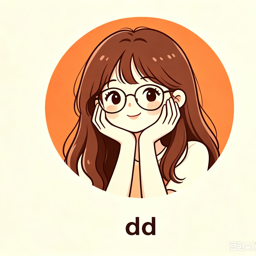
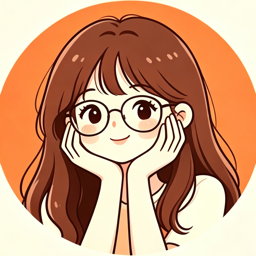
阿勒泰段加 Plan A/B 双方案切换 + 替换 4 人头像(唧唧/dd/jojo/亮哥)

diff --git a/docs/xinjiang/index.html b/docs/xinjiang/index.html
@@ -149,6 +149,17 @@
   /* 删除按钮 */
   .fb-del{margin-left:auto; background:none; border:1px solid #f0d6cc; color:#d95b2b; border-radius:8px; padding:2px 9px; font-size:11.5px; cursor:pointer; white-space:nowrap;}
   .fb-del:hover{background:#fdeee8;}
+  /* Plan A/B 方案对比 */
+  .plan-tabs{display:flex; gap:8px; flex-wrap:wrap; margin-bottom:12px;}
+  .plan-tab{background:var(--soft); border:1px solid var(--line); color:#6b6152; font-size:13px; font-weight:700; padding:8px 14px; border-radius:999px; cursor:pointer;}
+  .plan-tab.on{background:var(--primary); color:#fff; border-color:var(--primary);}
+  .plan-card{background:#fffdf9; border:1px solid var(--line); border-radius:14px; padding:14px 16px; margin-top:10px;}
+  .plan-card h4{margin:0 0 8px; font-size:15px;}
+  .plan-card ul{margin:0; padding-left:18px; font-size:13.5px; color:#5f5649; line-height:1.9;}
+  .plan-note{margin:10px 0 0; font-size:12.5px; color:#9a8f7f;}
+  .pc-tag{display:inline-block; font-size:11px; font-weight:800; border-radius:6px; padding:2px 8px; margin-left:6px; vertical-align:middle;}
+  .tag-expensive{background:#fdeee8; color:#d95b2b;}
+  .tag-save{background:#e6f4ec; color:#2f8f6b;}
   html{scroll-behavior:smooth; scroll-padding-top:64px;}
   /* 顶部导航 */
   .topnav{position:sticky; top:0; z-index:80; display:flex; gap:6px; overflow-x:auto; background:rgba(255,252,246,.96); backdrop-filter:blur(6px); padding:10px 14px; border-bottom:1px solid var(--line); scrollbar-width:none;}
@@ -296,7 +307,7 @@
       <tr><td class="d">D8</td><td class="wk">10-01 · 周四 🎉</td><td>赛里木湖 → 乌尔禾魔鬼城 · 落日 → 克拉玛依</td><td class="stay">克拉玛依</td></tr>
       <tr><td class="d">D9</td><td class="wk">10-02 · 周五</td><td>克拉玛依 → 布尔津 · 老码头夜市</td><td class="stay">布尔津</td></tr>
       <tr><td class="d">D10</td><td class="wk">10-03 · 周六</td><td>布尔津 → 喀纳斯湖 · 观鱼台</td><td class="stay">喀纳斯/贾登峪</td></tr>
-      <tr><td class="d">D11</td><td class="wk">10-04 · 周日</td><td>喀纳斯三湾徒步 → 禾木村 · 白桦林日落</td><td class="stay">禾木</td></tr>
+      <tr><td class="d">D11</td><td class="wk">10-04 · 周日</td><td>喀纳斯三湾徒步 → 禾木 / 白哈巴</td><td class="stay">禾木 / 白哈巴</td></tr>
       <tr><td class="d">D12</td><td class="wk">10-05 · 周一</td><td>禾木晨雾 → 阿勒泰 → S21 沙漠公路 → 乌鲁木齐</td><td class="stay">乌鲁木齐</td></tr>
       <tr><td class="d">D13</td><td class="wk">10-06 · 周二</td><td>市区自由活动 · 下午飞机返杭</td><td class="stay">—</td></tr>
     </table>
@@ -570,6 +581,39 @@
         </div>
       </div>
     </article>
+<article class="day open">
+      <div class="day-head">
+        <div class="day-badge"><span class="n">PLAN</span><span class="d">A/B</span><span class="m">对比</span></div>
+        <div class="day-hd-tt">
+          <div class="route">🔀 喀纳斯 · 禾木 · 白哈巴 —— 双方案对比（D10–D12）</div>
+          <div class="wk">同一段路两种走法 · 点下方按钮切换方案</div>
+        </div>
+      </div>
+      <div class="day-body">
+        <div class="plan-tabs">
+          <button class="plan-tab on" data-plan="A" onclick="switchPlan('A')">🏔 Plan A · 喀纳斯 + 禾木</button>
+          <button class="plan-tab" data-plan="B" onclick="switchPlan('B')">🍂 Plan B · 喀纳斯 + 白哈巴</button>
+        </div>
+        <div class="plan-card" id="plan-A">
+          <h4>🏔 Plan A · 经典全景<span class="pc-tag tag-expensive">住宿较贵</span></h4>
+          <ul>
+            <li><b>D10</b>：布尔津 → 喀纳斯湖 · 观鱼台，宿 喀纳斯/贾登峪</li>
+            <li><b>D11</b>：喀纳斯三湾徒步 → 禾木村 · 白桦林日落，宿 <b>禾木</b>（木屋 ¥600–1200，国庆翻倍）</li>
+            <li><b>D12</b>：禾木晨雾日出 → 阿勒泰 → S21 → 乌鲁木齐</li>
+          </ul>
+          <p class="plan-note">✅ 禾木「全村晨雾全景」独此一家，最出片；⚠ 住宿最贵、游客最多。</p>
+        </div>
+        <div class="plan-card" id="plan-B" style="display:none">
+          <h4>🍂 Plan B · 省钱小众<span class="pc-tag tag-save">省住宿 · 更原始</span></h4>
+          <ul>
+            <li><b>D10</b>：布尔津 → 喀纳斯湖 · 观鱼台，宿 喀纳斯/贾登峪（同 Plan A）</li>
+            <li><b>D11</b>：喀纳斯三湾徒步 → 白哈巴村（西北第一村 · 边境原始村），宿 <b>白哈巴</b>（木屋 ¥300–600）</li>
+            <li><b>D12</b>：白哈巴日出 → 阿勒泰 → S21 → 乌鲁木齐</li>
+          </ul>
+          <p class="plan-note">✅ 村落秋景白哈巴+喀纳斯已覆盖大半，住宿便宜、游客少；⚠ 缺禾木全景晨雾，白哈巴需边防证。</p>
+        </div>
+      </div>
+    </article>
 <article class="day">
       <div class="day-head">
         <div class="day-badge"><span class="n">DAY</span><span class="d">10</span><span class="m">10.3</span></div>
@@ -602,7 +646,7 @@
       <div class="day-head">
         <div class="day-badge"><span class="n">DAY</span><span class="d">11</span><span class="m">10.4</span></div>
         <div class="day-hd-tt">
-          <div class="route">🌲 喀纳斯三湾徒步 → 禾木村 · 白桦林 &amp; 日落</div>
+          <div class="route">🌲 喀纳斯三湾徒步 → 禾木村 · 白桦林 &amp; 日落（Plan A）</div>
           <div class="wk">周日 · 最美秋色段</div>
         </div>
       </div>
@@ -631,7 +675,7 @@
       <div class="day-head">
         <div class="day-badge"><span class="n">DAY</span><span class="d">12</span><span class="m">10.5</span></div>
         <div class="day-hd-tt">
-          <div class="route">🛣 禾木晨雾 → 阿勒泰 → S21 沙漠公路 → 乌鲁木齐（约 700km / 8h）</div>
+          <div class="route">🛣 禾木晨雾 → 阿勒泰 → S21 沙漠公路 → 乌鲁木齐（Plan A · 约 700km / 8h）</div>
           <div class="wk">周一 · 长途拉练日</div>
         </div>
       </div>
@@ -1031,6 +1075,12 @@ function collapseAll(){ document.querySelectorAll('#days .day').forEach(function
   window.addEventListener('scroll', spy, { passive: true });
   spy();
 })();
+// Plan A/B 方案切换
+function switchPlan(t){
+  document.getElementById('plan-A').style.display = (t==='A') ? '' : 'none';
+  document.getElementById('plan-B').style.display = (t==='B') ? '' : 'none';
+  document.querySelectorAll('.plan-tab').forEach(function(b){ b.classList.toggle('on', b.getAttribute('data-plan')===t); });
+}
 // 待确认清单（勾选状态存 localStorage）
 (function(){
   var key = 'ck_' + location.pathname.replace(/[^a-z0-9]+/gi, '_');
